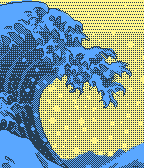
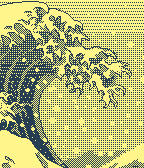
Fixed the things that I didn't test =|

diff --git a/src/wave.c b/src/wave.c
@@ -9,28 +9,36 @@ GBitmap *_background_bitmap;
 
 
 void choose_background(bool bt_connected){
+	if(_background_bitmap){
+		gbitmap_destroy(_background_bitmap);
+	}
+	
 	if(bt_connected){
 		_background_bitmap = gbitmap_create_with_resource(RESOURCE_ID_IMAGE_WAVE_BACKGROUND);
+	} else {
+		_background_bitmap = gbitmap_create_with_resource(RESOURCE_ID_IMAGE_DES_WAVE_BACKGROUND);
 	}
-	_background_bitmap = gbitmap_create_with_resource(RESOURCE_ID_IMAGE_DES_WAVE_BACKGROUND);
+	
+	bitmap_layer_set_bitmap(_background_layer, _background_bitmap);
 }
 
 // Background
 void create_background(Window *window){
   Layer *window_layer = window_get_root_layer(window);
 
+	_background_layer = bitmap_layer_create(layer_get_bounds(window_layer));
+	
 #ifdef PBL_SDK_2
   choose_background(bluetooth_connection_service_peek());
 #elif PBL_SDK_3
   choose_background(connection_service_peek_pebble_app_connection());
 #endif
-	_background_layer = bitmap_layer_create(layer_get_bounds(window_layer));
 	
 	bitmap_layer_set_bitmap(_background_layer, _background_bitmap);
 	
 	layer_add_child(window_get_root_layer(window), bitmap_layer_get_layer(_background_layer));
 
-	#ifdef PBL_SDK_2
+#ifdef PBL_SDK_2
   bluetooth_connection_service_subscribe(choose_background);
 #elif PBL_SDK_3
   connection_service_subscribe((ConnectionHandlers) {
